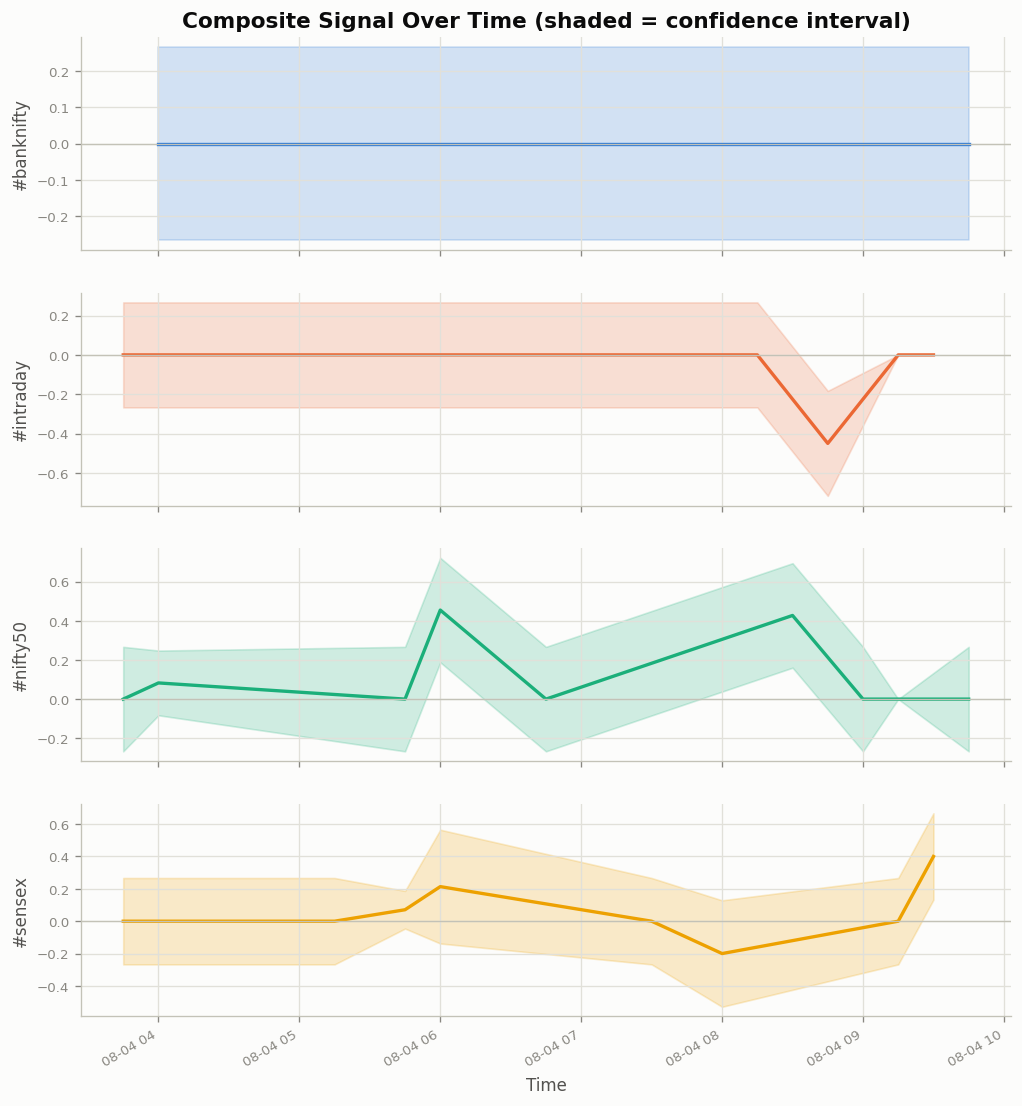
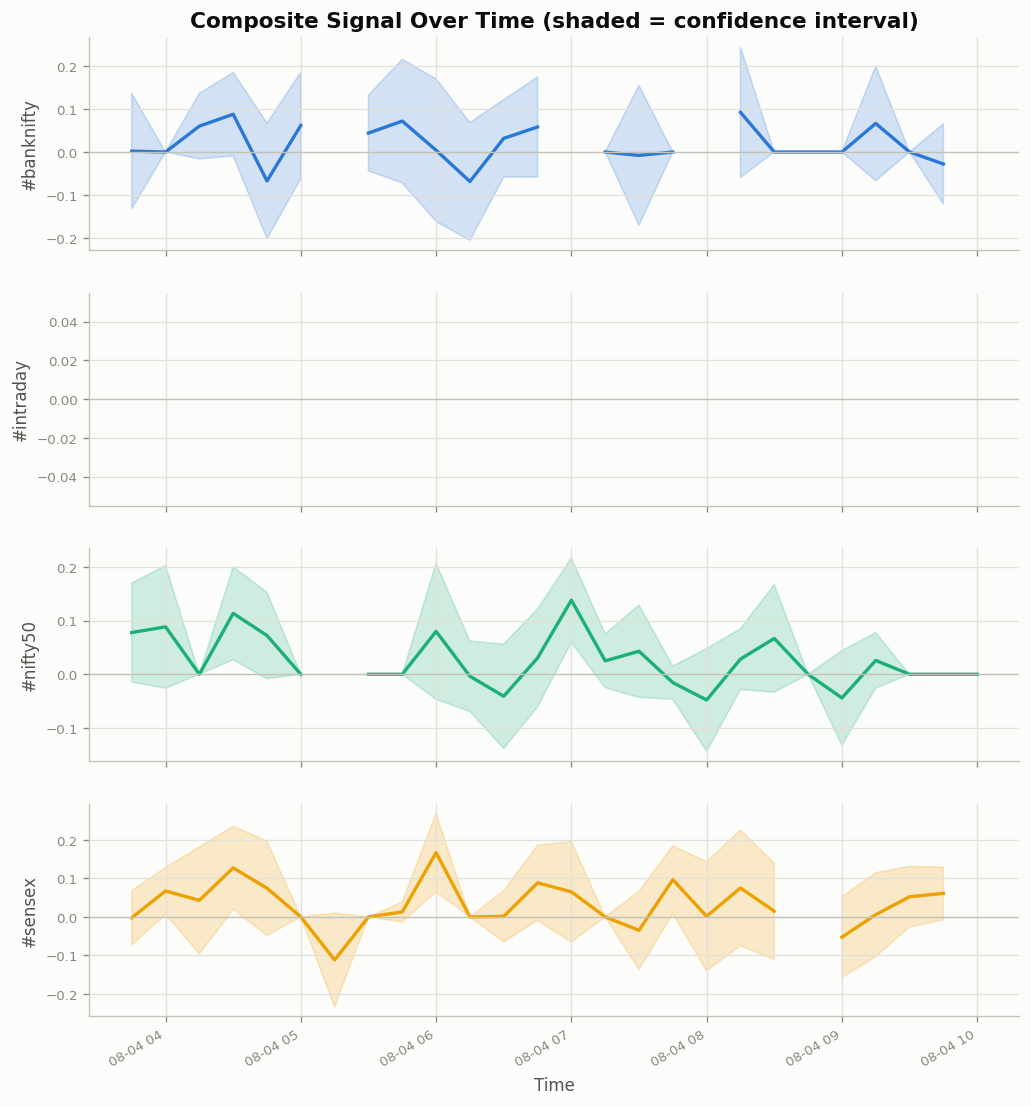
Regenerate the sample signal output and plot
Reflect the new sentiment_coverage column and thin-bucket suppression:
suppressed buckets now show as gaps in the signal plot instead of
confident-looking lines drawn through single-tweet buckets. Also
reword the README so TF-IDF is described as the vectorisation step,
not a composite-signal input.

diff --git a/README.md b/README.md
@@ -6,7 +6,7 @@ MarketPulse collects Indian stock-market discussion from Twitter/X, cleans and s
 
 1. Scrapes tweets for `#nifty50`, `#sensex`, `#intraday`, and `#banknifty` — plus a few similar Indian-market hashtags (`#nifty`, `#niftybank`, `#giftnifty`, `#stockmarket`, `#sharemarket`, `#nse`) — with Selenium against [Nitter](https://github.com/zedeus/nitter), a login-free mirror of X.com's public content, failing over across a list of public instances. No paid or official Twitter API.
 2. Cleans, deduplicates, and stores the tweets as partitioned Parquet files.
-3. Converts tweet text into a composite trading signal per hashtag (TF-IDF, sentiment, engagement, hashtag momentum), filtered to NSE trading hours. Each 15-minute bucket carries an interval — a bootstrap resample widened to a normal-approximation floor, whichever is wider — and buckets with fewer than `min_bucket_tweets` tweets are reported as volume only, with the signal suppressed.
+3. Converts tweet text into numerical vectors (TF-IDF over the corpus) and, separately, into a composite trading signal per hashtag built from engineered features — lexicon sentiment (English + Romanised Hindi), engagement virality, hashtag momentum — filtered to NSE trading hours. Each 15-minute bucket carries an interval (a bootstrap resample widened to a normal-approximation floor, whichever is wider); buckets with fewer than `min_bucket_tweets` tweets are reported as volume only, signal suppressed, and each carries a `sentiment_coverage` score.
 4. Plots volume, signal, and engagement trends.
 
 Collection targets 2,000 tweets in 24 hours; the scraper exits non-zero if it falls short (pass `--allow-shortfall` to override). Actual counts depend on live availability of the (unofficial, rate-limited) Nitter mirrors at run time. The core four hashtags and the similar-hashtag list are both in `config/settings.yaml` (`scraper.hashtags` / `scraper.related_hashtags`).
